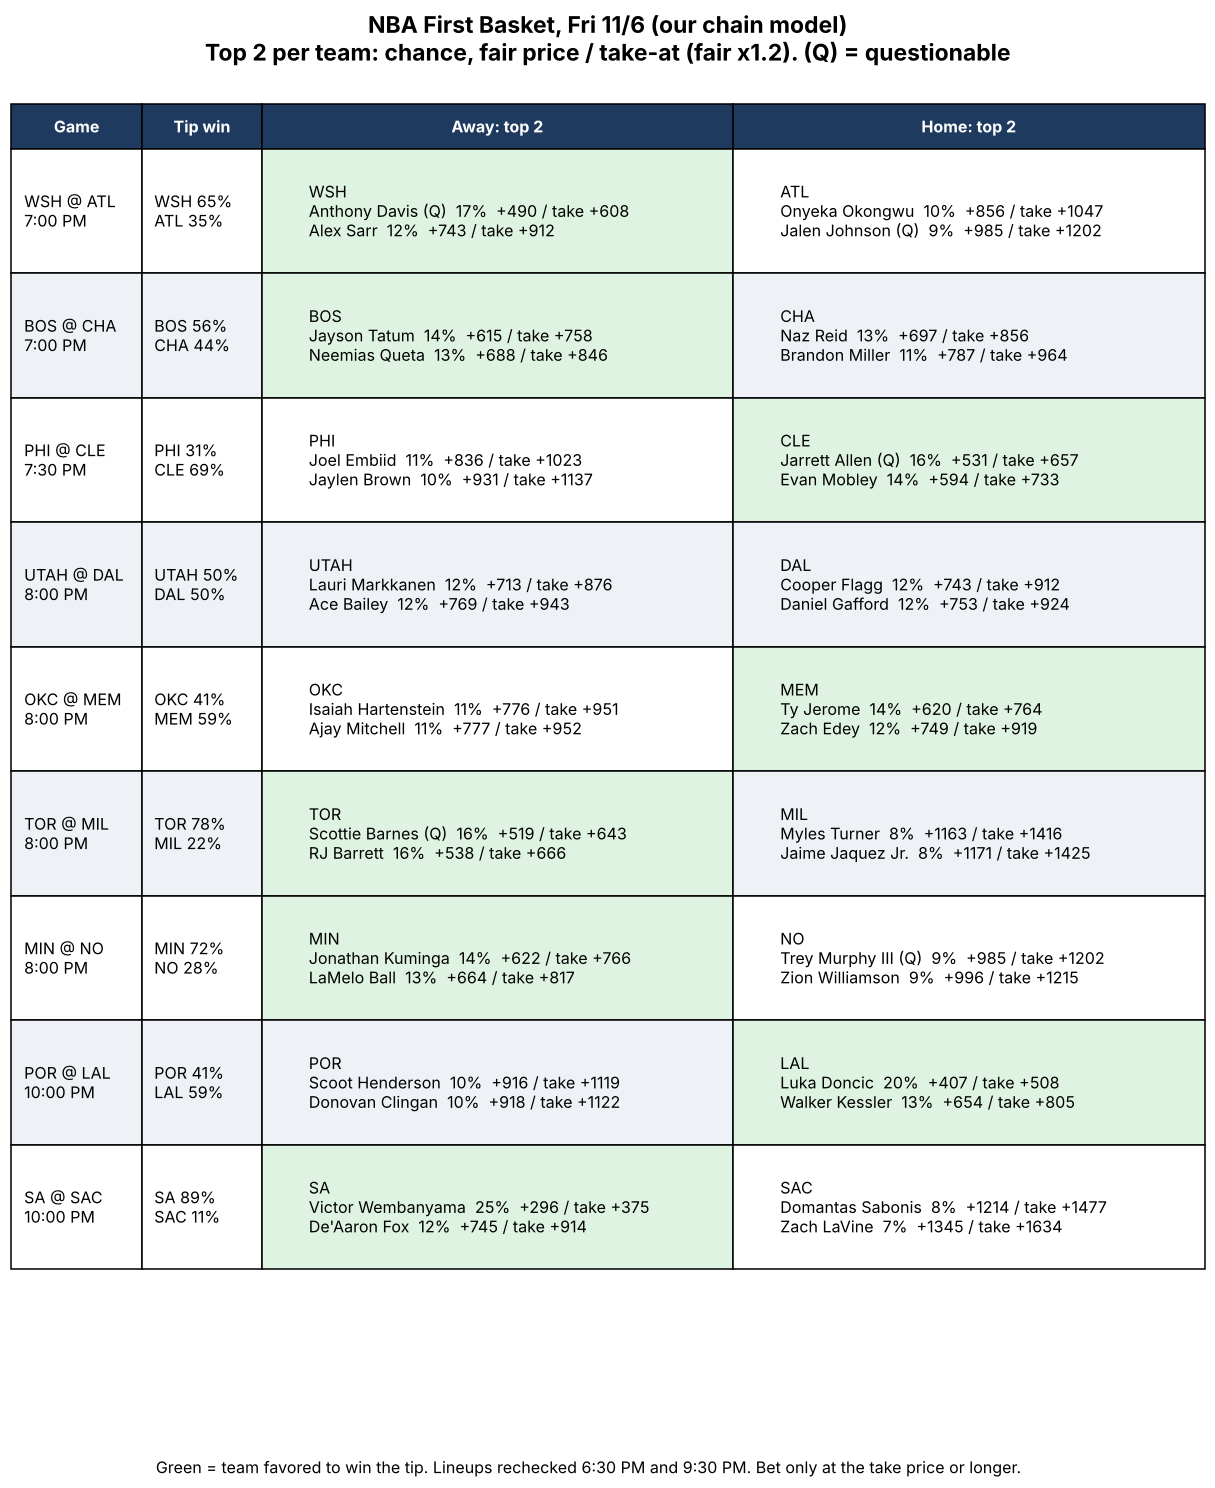
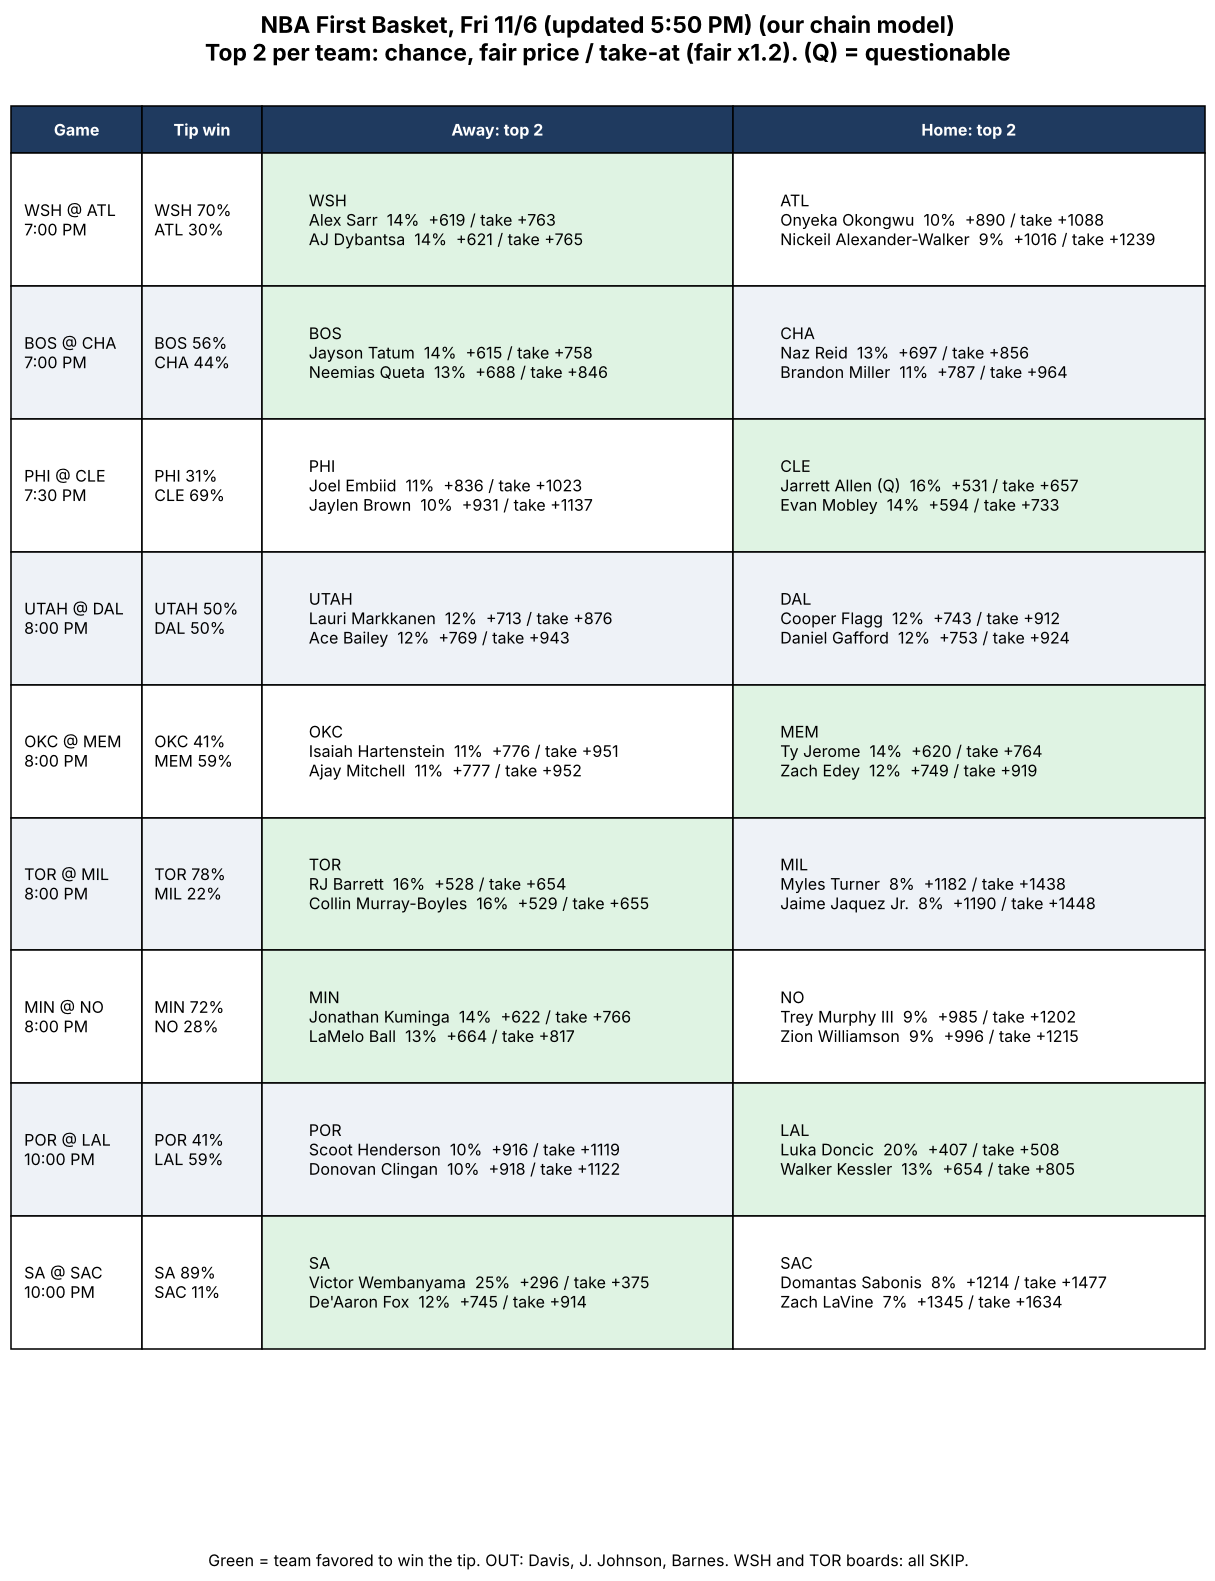
NBA 11/6 FB chart updated (Davis, Johnson, Barnes out) + chart script
Claude-Session: https://claude.ai/code/session_01TQWUAJSyeczoh1eaRjRwmB

diff --git a/analysis/nba/make_fb_chart.py b/analysis/nba/make_fb_chart.py
@@ -1,0 +1,27 @@
+"""Tim's phone chart: tip % + top 2 FB per team per game. Usage: python3 make_fb_chart.py DATE 'AWAY,HOME,TIME,AWAYTIP;...' [note]"""
+import json,collections,sys
+import matplotlib; matplotlib.use('Agg')
+import matplotlib.pyplot as plt
+date=sys.argv[1]; games=[(a,h,t,int(p)) for a,h,t,p in (g.split(',') for g in sys.argv[2].split(';'))]
+note=sys.argv[3] if len(sys.argv)>3 else ""
+d=json.load(open('analysis/nba/out/fb_candidates.json'))
+t=collections.defaultdict(list)
+for r in d: t[r['tm']].append(r)
+for v in t.values(): v.sort(key=lambda r:-r['p_v2'])
+take=lambda f: f"+{round(((int(f)/100+1)*1.2-1)*100)}"
+def cell(tm):
+    return tm+"\n"+"\n".join(f"{r['player']}{' (Q)' if r['inj'] else ''}  {r['p_v2']*100:.0f}%  {r['fair_v2']} / take {take(r['fair_v2'].strip('+'))}" for r in t[tm][:2])
+rows=[[f"{a} @ {h}\n{tm} PM",f"{a} {ap}%\n{h} {100-ap}%",cell(a),cell(h)] for a,h,tm,ap in games]
+fig,ax=plt.subplots(figsize=(14,1.6*len(games)+1.6)); ax.axis('off')
+ax.set_title(f"NBA First Basket, {date} (our chain model)\nTop 2 per team: chance, fair price / take-at (fair x1.2). (Q) = questionable",fontsize=15,fontweight='bold',pad=12)
+tb=ax.table(cellText=rows,colLabels=["Game","Tip win","Away: top 2","Home: top 2"],colWidths=[0.11,0.1,0.395,0.395],loc='upper center',cellLoc='left')
+tb.auto_set_font_size(False); tb.set_fontsize(10.5)
+for (r,c),cl in tb.get_celld().items():
+    cl.set_height(0.098 if r>0 else 0.035)
+    if r==0: cl.set_facecolor('#1f3a5f'); cl.get_text().set_color('white'); cl.get_text().set_fontweight('bold')
+    elif r%2==0: cl.set_facecolor('#eef2f7')
+    if r>0 and c in (2,3):
+        ap=games[r-1][3]
+        if (c==2 and ap>50) or (c==3 and ap<50): cl.set_facecolor('#dff3e3')
+plt.figtext(0.5,0.035,"Green = team favored to win the tip. "+note,ha='center',fontsize=10.5)
+plt.savefig(f'analysis/nba/out/charts/fb_{sys.argv[4] if len(sys.argv)>4 else "latest"}.png',dpi=110,bbox_inches='tight')
